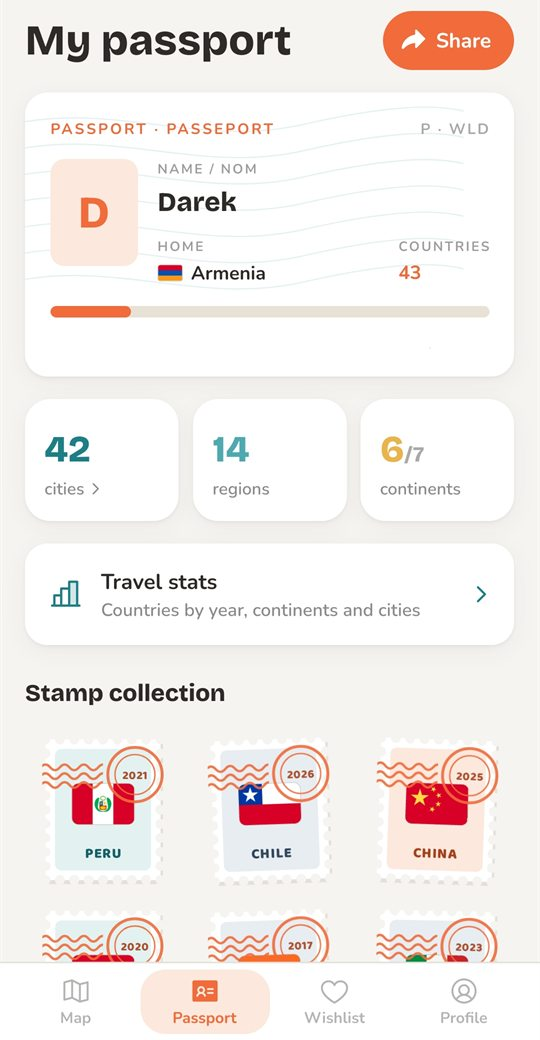
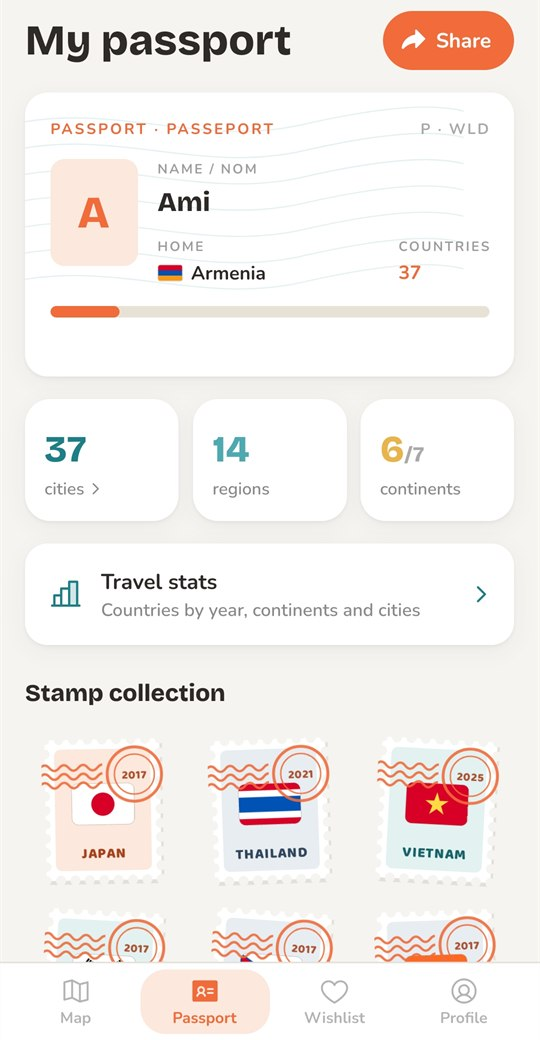
Airmail stamps in the Pro strip, new passport and share screenshots

diff --git a/index.html b/index.html
@@ -199,41 +199,59 @@
           <div class="drift-track">
             <img src="assets/stamp-gold-japan.png" alt="" width="248" height="295" loading="lazy">
             <img src="assets/stamp-holo-thailand.png" alt="" width="252" height="299" loading="lazy">
+            <img src="assets/stamp-airmail-france.png" alt="" width="258" height="305" loading="lazy">
             <img src="assets/stamp-gold-italy.png" alt="" width="246" height="295" loading="lazy">
             <img src="assets/stamp-holo-vietnam.png" alt="" width="251" height="303" loading="lazy">
+            <img src="assets/stamp-airmail-spain.png" alt="" width="246" height="291" loading="lazy">
             <img src="assets/stamp-gold-greece.png" alt="" width="258" height="306" loading="lazy">
             <img src="assets/stamp-holo-south-korea.png" alt="" width="250" height="303" loading="lazy">
+            <img src="assets/stamp-airmail-cambodia.png" alt="" width="254" height="301" loading="lazy">
             <img src="assets/stamp-gold-japan.png" alt="" width="248" height="295" loading="lazy">
             <img src="assets/stamp-holo-thailand.png" alt="" width="252" height="299" loading="lazy">
+            <img src="assets/stamp-airmail-france.png" alt="" width="258" height="305" loading="lazy">
             <img src="assets/stamp-gold-italy.png" alt="" width="246" height="295" loading="lazy">
             <img src="assets/stamp-holo-vietnam.png" alt="" width="251" height="303" loading="lazy">
+            <img src="assets/stamp-airmail-spain.png" alt="" width="246" height="291" loading="lazy">
             <img src="assets/stamp-gold-greece.png" alt="" width="258" height="306" loading="lazy">
             <img src="assets/stamp-holo-south-korea.png" alt="" width="250" height="303" loading="lazy">
+            <img src="assets/stamp-airmail-cambodia.png" alt="" width="254" height="301" loading="lazy">
             <img src="assets/stamp-gold-japan.png" alt="" width="248" height="295" loading="lazy">
             <img src="assets/stamp-holo-thailand.png" alt="" width="252" height="299" loading="lazy">
+            <img src="assets/stamp-airmail-france.png" alt="" width="258" height="305" loading="lazy">
             <img src="assets/stamp-gold-italy.png" alt="" width="246" height="295" loading="lazy">
             <img src="assets/stamp-holo-vietnam.png" alt="" width="251" height="303" loading="lazy">
+            <img src="assets/stamp-airmail-spain.png" alt="" width="246" height="291" loading="lazy">
             <img src="assets/stamp-gold-greece.png" alt="" width="258" height="306" loading="lazy">
             <img src="assets/stamp-holo-south-korea.png" alt="" width="250" height="303" loading="lazy">
+            <img src="assets/stamp-airmail-cambodia.png" alt="" width="254" height="301" loading="lazy">
           </div>
           <div class="drift-track back">
             <img src="assets/stamp-holo-nepal.png" alt="" width="254" height="304" loading="lazy">
+            <img src="assets/stamp-airmail-indonesia.png" alt="" width="249" height="300" loading="lazy">
             <img src="assets/stamp-gold-canada.png" alt="" width="259" height="306" loading="lazy">
             <img src="assets/stamp-holo-turkey.png" alt="" width="255" height="307" loading="lazy">
+            <img src="assets/stamp-airmail-portugal.png" alt="" width="249" height="302" loading="lazy">
             <img src="assets/stamp-gold-brazil.png" alt="" width="248" height="296" loading="lazy">
             <img src="assets/stamp-holo-india.png" alt="" width="251" height="299" loading="lazy">
+            <img src="assets/stamp-airmail-germany.png" alt="" width="249" height="295" loading="lazy">
             <img src="assets/stamp-gold-egypt.png" alt="" width="246" height="291" loading="lazy">
             <img src="assets/stamp-holo-nepal.png" alt="" width="254" height="304" loading="lazy">
+            <img src="assets/stamp-airmail-indonesia.png" alt="" width="249" height="300" loading="lazy">
             <img src="assets/stamp-gold-canada.png" alt="" width="259" height="306" loading="lazy">
             <img src="assets/stamp-holo-turkey.png" alt="" width="255" height="307" loading="lazy">
+            <img src="assets/stamp-airmail-portugal.png" alt="" width="249" height="302" loading="lazy">
             <img src="assets/stamp-gold-brazil.png" alt="" width="248" height="296" loading="lazy">
             <img src="assets/stamp-holo-india.png" alt="" width="251" height="299" loading="lazy">
+            <img src="assets/stamp-airmail-germany.png" alt="" width="249" height="295" loading="lazy">
             <img src="assets/stamp-gold-egypt.png" alt="" width="246" height="291" loading="lazy">
             <img src="assets/stamp-holo-nepal.png" alt="" width="254" height="304" loading="lazy">
+            <img src="assets/stamp-airmail-indonesia.png" alt="" width="249" height="300" loading="lazy">
             <img src="assets/stamp-gold-canada.png" alt="" width="259" height="306" loading="lazy">
             <img src="assets/stamp-holo-turkey.png" alt="" width="255" height="307" loading="lazy">
+            <img src="assets/stamp-airmail-portugal.png" alt="" width="249" height="302" loading="lazy">
             <img src="assets/stamp-gold-brazil.png" alt="" width="248" height="296" loading="lazy">
             <img src="assets/stamp-holo-india.png" alt="" width="251" height="299" loading="lazy">
+            <img src="assets/stamp-airmail-germany.png" alt="" width="249" height="295" loading="lazy">
             <img src="assets/stamp-gold-egypt.png" alt="" width="246" height="291" loading="lazy">
           </div>
         </div>

diff --git a/style.css b/style.css
@@ -428,8 +428,8 @@ section { padding: 84px 0; }
   -webkit-mask-image: linear-gradient(90deg, transparent, #000 12%, #000 88%, transparent);
   mask-image: linear-gradient(90deg, transparent, #000 12%, #000 88%, transparent);
 }
-.drift-track { display: flex; gap: 20px; width: max-content; animation: drift3 42s linear infinite; }
-.drift-track.back { animation-name: drift3-back; animation-duration: 50s; }
+.drift-track { display: flex; gap: 20px; width: max-content; animation: drift3 63s linear infinite; }
+.drift-track.back { animation-name: drift3-back; animation-duration: 75s; }
 .drift-rows:hover .drift-track { animation-play-state: paused; }
 .drift-track img {
   flex: none; width: clamp(96px, 11vw, 128px); height: auto;
